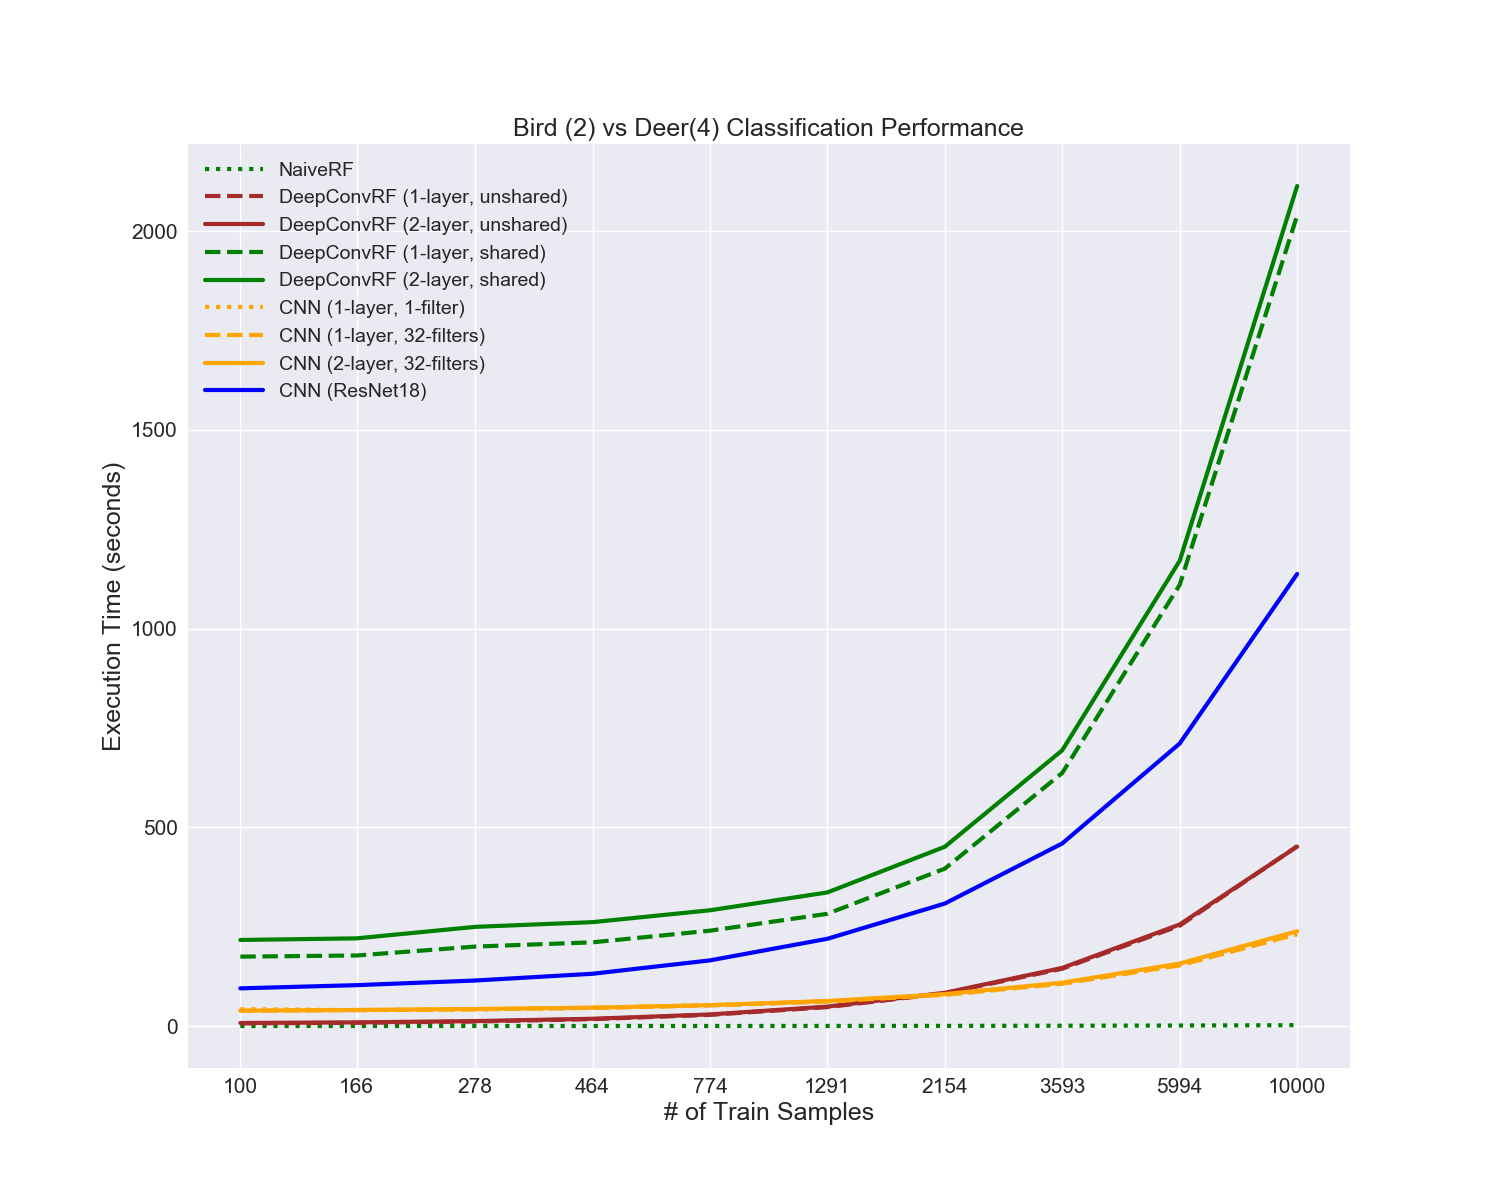
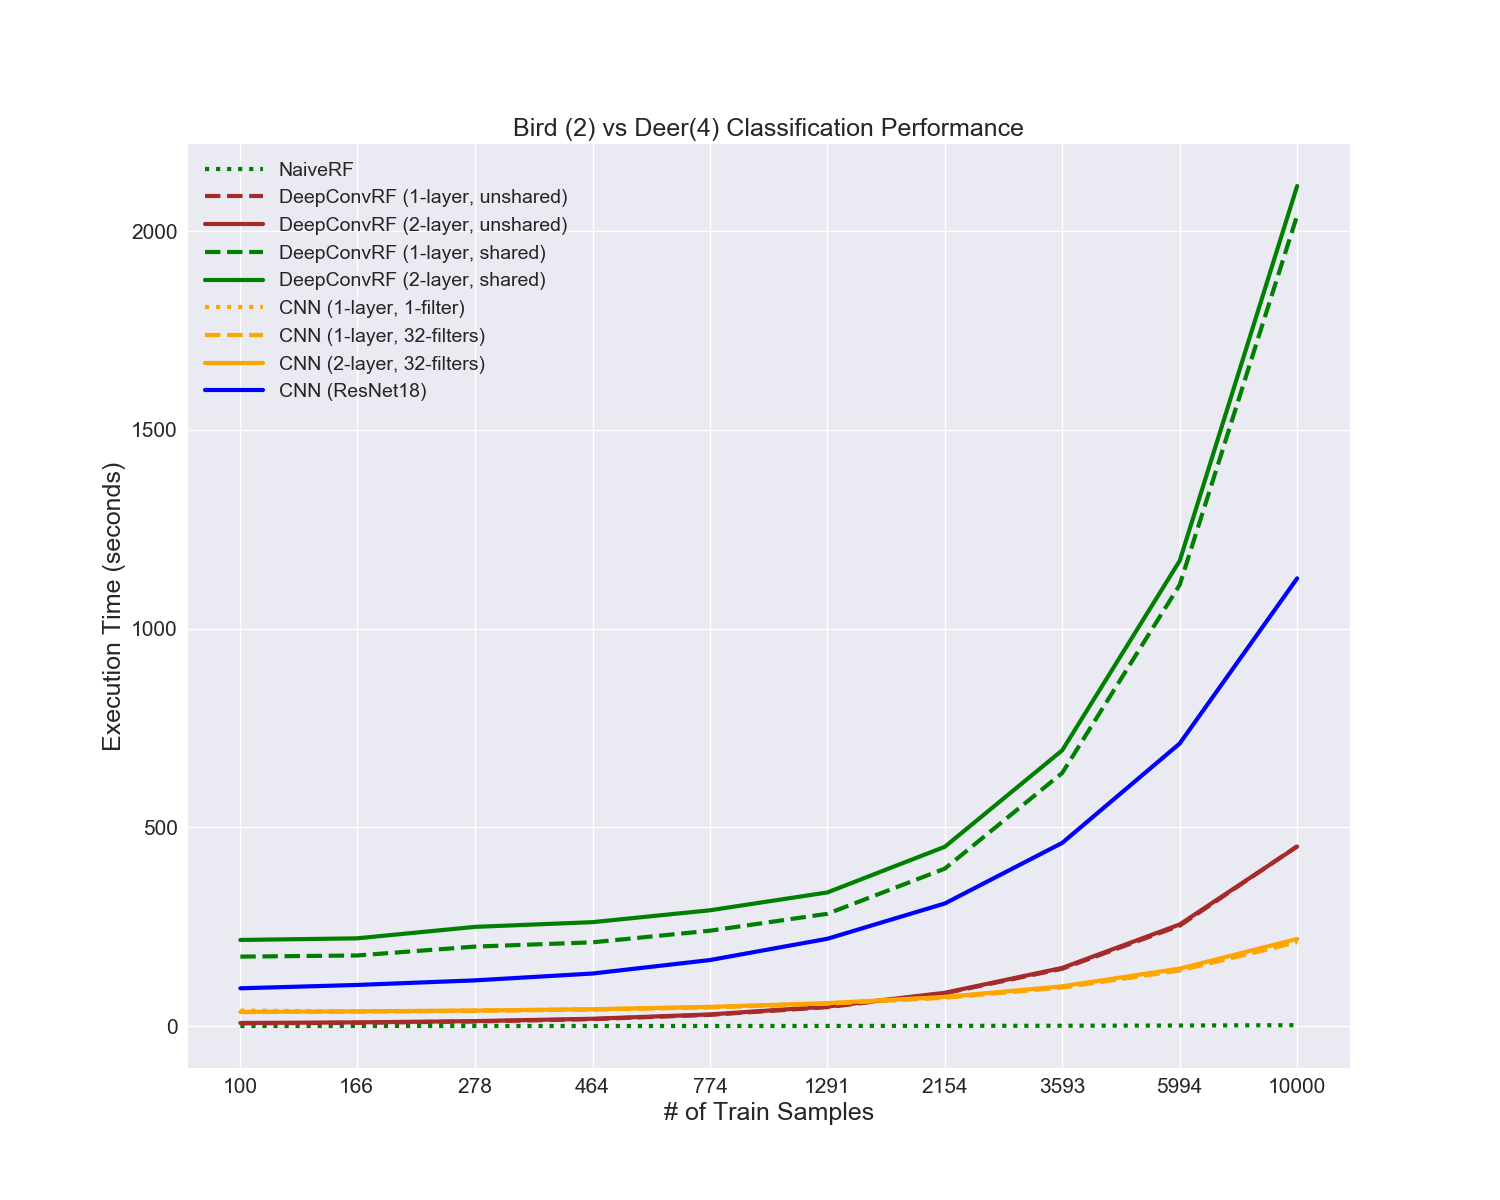
Update cifar10 2vs4

diff --git a/experiments/run.py b/experiments/run.py
@@ -28,12 +28,12 @@ warnings.filterwarnings("ignore")
 
 ####### CIFAR10 ########
 DATASET_NAME = "CIFAR10"
-TITLE = "Dog (5) vs Horse(7)"
+TITLE = "Bird (2) vs Deer(4)"
 
 DATA_PATH = "./data"
-RESULTS_PATH = "results/cifar10/100_percent_data/5vs7/"
+RESULTS_PATH = "results/cifar10/100_percent_data/2vs4/"
 
-CHOOSEN_CLASSES = [5, 7]
+CHOOSEN_CLASSES = [2, 4]
 MAX_TRAIN_FRACTION = 1.0
 
 # ####### SVHN ########
